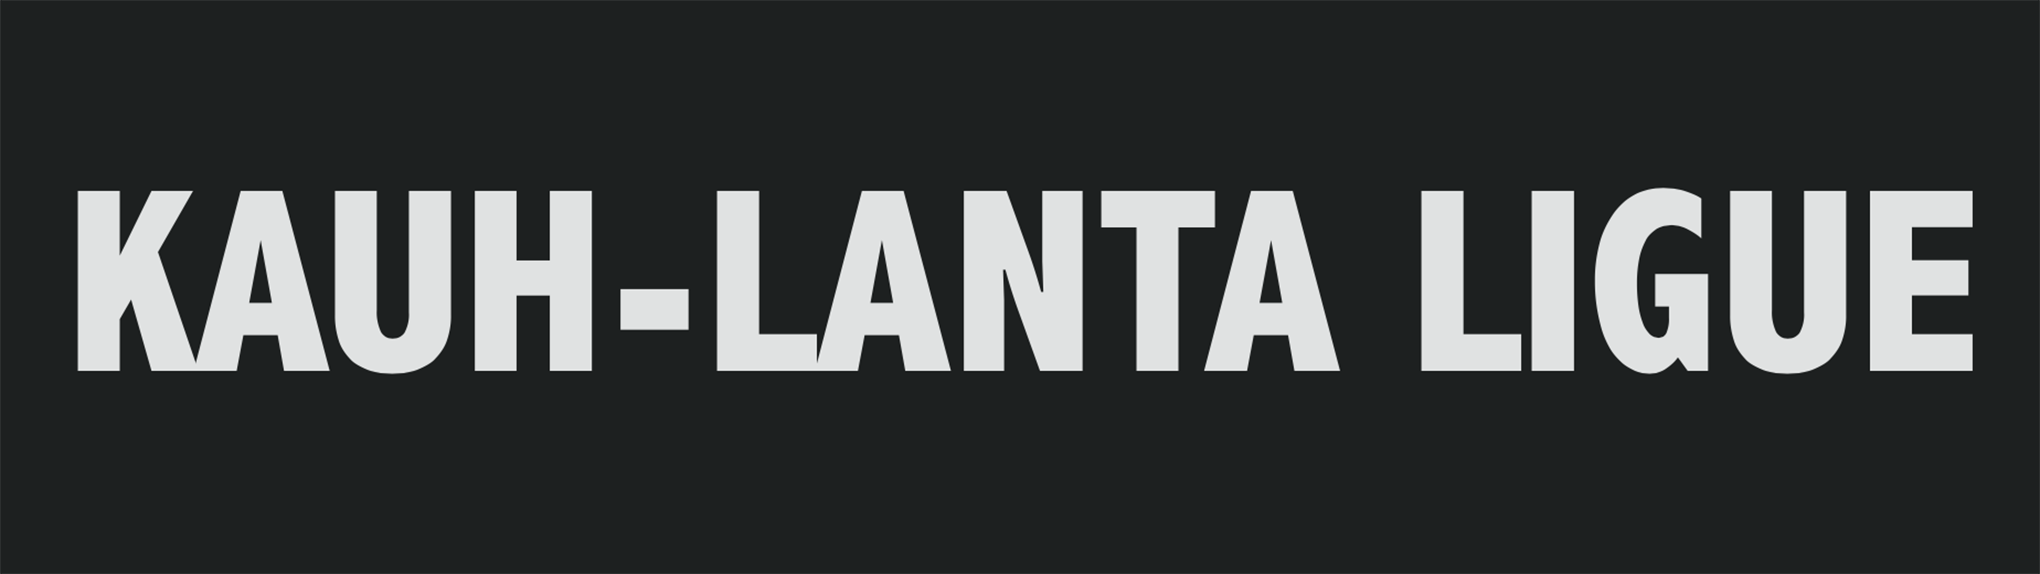
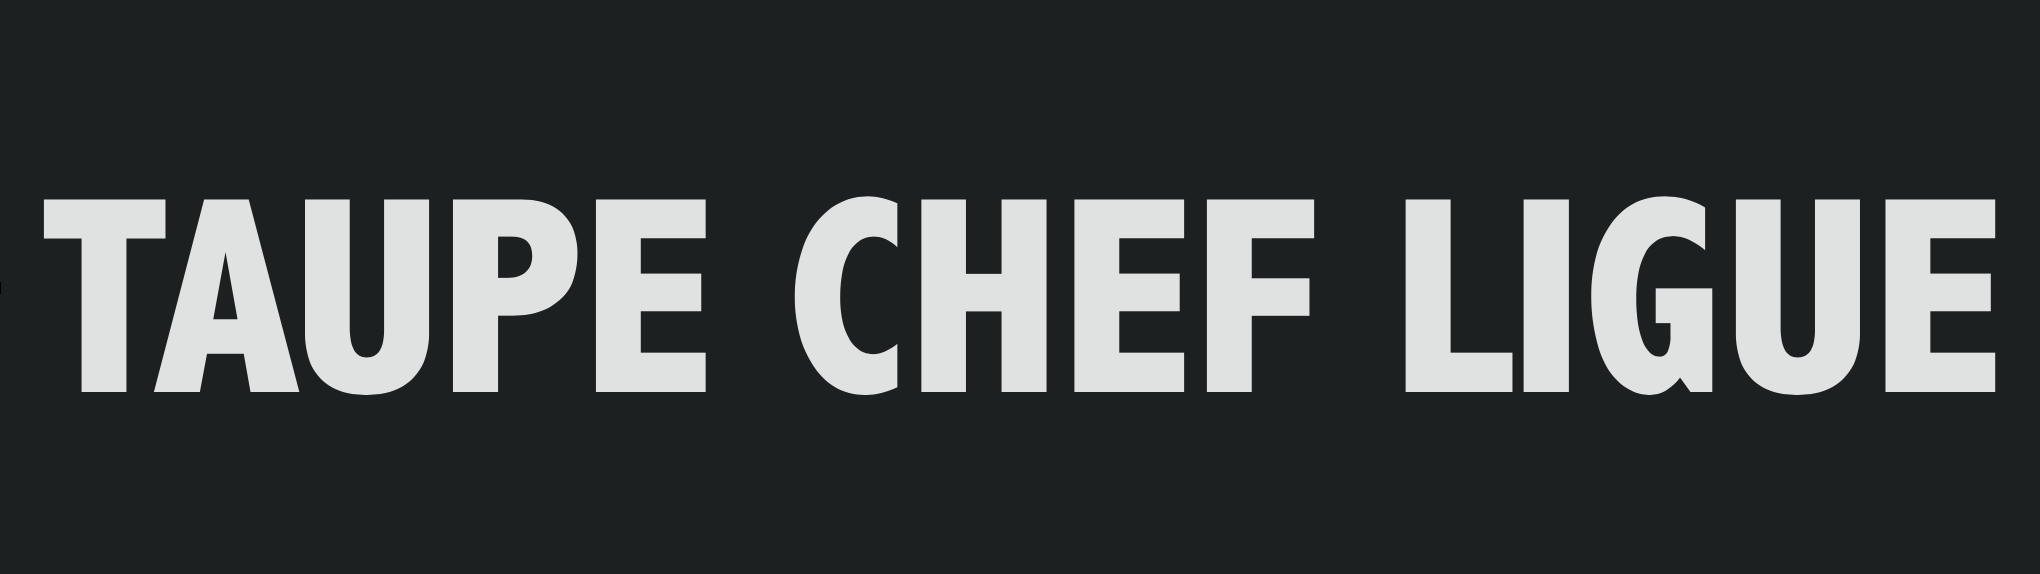
Corrections mineures

Changed region(s): [[0.0, 0.3258, 0.9882, 0.7108]]

diff --git a/app/templates/attente.html b/app/templates/attente.html
@@ -13,9 +13,9 @@
                 <div class="col-lg-12 col-md-12 col-sm-12" style="display: block; justify-content: center;">
                     <img src="{{ url_for('static', filename='img/icon-long.png') }}" alt="Taupe Chef Ligue" style="width: 80%; margin: auto;">
                     <br>
-                    <p style="text-align: center; font-size: 20px;"><b>⚒🧱🪚 Travaux pour la saison All Star La Légende en cours 🪚🧱⚒</b></p>
+                    <p style="text-align: center; font-size: 20px;"><b>⚒ Travaux  en cours</b></p>
                     <br>
-                    <div style="width: 400px; display: flex; justify-content: middle; margin: auto"><img src="https://img.buzzfeed.com/buzzfeed-static/static/2015-05/9/7/enhanced/webdr07/anigif_enhanced-14436-1431170683-6.gif"></div>
+                    <div style="width: 400px; display: flex; justify-content: middle; margin: auto"><img src="http://penibles.fr/wp-content/uploads/2016/02/TopChefgif5.gif"></div>
                 </div>
             </div>
     </div>
